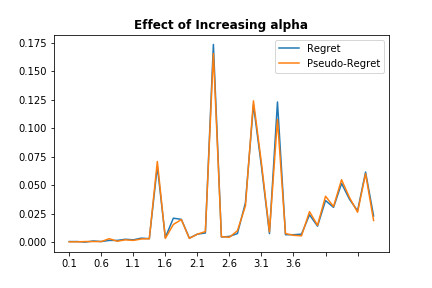
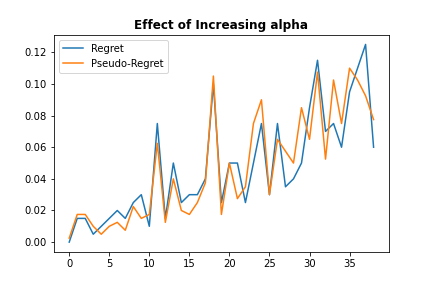
Only Results

diff --git a/experiments_stochastic_bandits.py b/experiments_stochastic_bandits.py
@@ -31,13 +31,13 @@ def plot_list(l, title="", xlabel="", ylabel="", labels="",
     plt.xlabel(xlabel)
     plt.ylabel(ylabel)
     plt.legend(labels=labels)
-    plt.xticks(np.arange(0,len(l[0]), step=int(len(l[0])/len(axis_data))),
-               labels=axis_data)
+    #plt.xticks(np.arange(0,len(l[0]), step=int(len(l[0])/len(axis_data))),
+    #           labels=axis_data)
 
 
 #Experiments
 #number of reps
-reps = 40
+reps = 200
 
 ###Two arm bandit
 
@@ -89,7 +89,7 @@ def increase_T(max_T, env, reps=reps, step=1, theory_bound=False):
     if theory_bound: return(regret, pseudo_regret, bounds)
     return(regret, pseudo_regret)
     
-#regret, pseudo_regret = increase_T(100, env1, 5)
+regret, pseudo_regret = increase_T(100, env1, step=1)
         
 plot_list(increase_T(max_T = 100, env=env1, step=1), 
           title="(Pseudo-) Regret per Timestep for increasing \n Number of Rounds",
@@ -170,28 +170,28 @@ bandit_vac = stochastic_bandit(arms=arms_vaccines,
                                expected_values=[0.99, 0.9945, 0.995])
 env_vac = env(bandit_vac, ucb_forecaster(alpha=2.1)) 
 
-env_vac.play_many_rounds(rounds=100000, repetitions=100, log_pseudo_regret=True)
+#env_vac.play_many_rounds(rounds=100000, repetitions=100, log_pseudo_regret=True)
 
-env_vac.play_round(5700000)
+#env_vac.play_round(5700000)
 #Regret: 2629
 #Pseudo-Regret: 2730.454
 
 #Test Against random forecaster
 env_vac_rand = env(bandit_vac, random_forecaster())
-env_vac_rand.play_round(5700000)
+#env_vac_rand.play_round(5700000)
 #Regret: 10260
 #Pseudo_regret: 10449.534
 
 #Increase T:
-incr_T_vac = increase_T(100000, env_vac, reps=30, step=1000, theory_bound=True)
+#incr_T_vac = increase_T(100000, env_vac, reps=30, step=1000, theory_bound=True)
 
 
-plot_list(incr_T_vac,
-          title="Development of theoretical bound over time steps \n in Comparison with real (Pseudo-) Regret",
-          labels=["Regret", "Pseudo-Regret", "Theoretical Bound"],
-          axis_data=np.arange(0, 100000, step=20000),
-          xlabel="Environment Steps",
-          ylabel="(Pseudo-) Regret per time-step")
+#plot_list(incr_T_vac,
+#          title="Development of theoretical bound over time steps \n in Comparison with real (Pseudo-) Regret",
+#          labels=["Regret", "Pseudo-Regret", "Theoretical Bound"],
+#          axis_data=np.arange(0, 100000, step=20000),
+#          xlabel="Environment Steps",
+#          ylabel="(Pseudo-) Regret per time-step")
 
 #plt.savefig(folder+"Increase_T_Vaccinations_bound.png")
 
